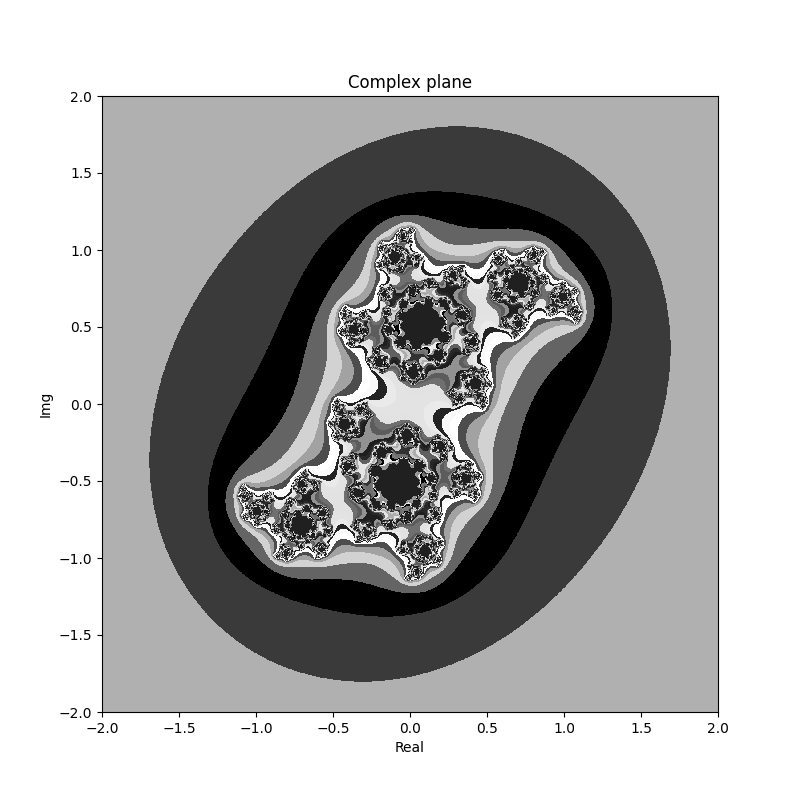
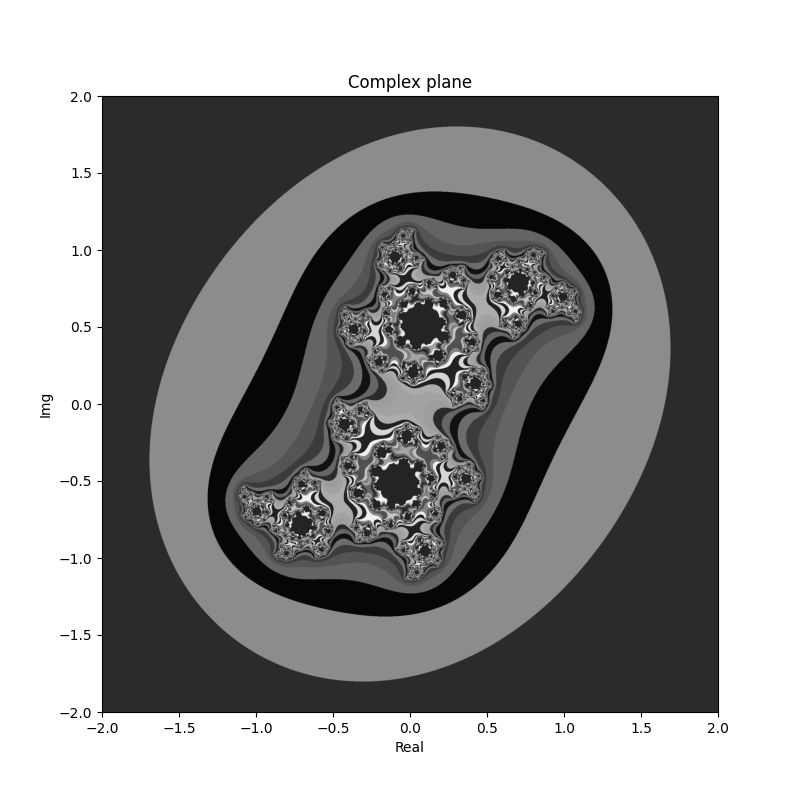
Update fractal.

diff --git a/Fractal/fractal.py b/Fractal/fractal.py
@@ -3,13 +3,14 @@ import matplotlib.pyplot as plt
 import cv2 as cv
 
 class JuliaSet:
-    def __init__(self, c, sampling_num, val_bound, iter_bound, colored):
-        self.sampling_num = sampling_num
+    def __init__(self, step, val_bound, iter_bound, c, colored):
+        self.step = step
         self.val_bound = val_bound
         self.iter_bound = iter_bound
         self.c = c
         self.colored = colored
-        self.COLORS = [np.random.choice(range(256), size=3) for i in range(self.iter_bound+1)]
+        self.RGB_COLORS = [np.random.choice(range(256), size=3) for i in range(self.iter_bound+1)]
+        self.GRAY_COLORS = [np.array([x,x,x]) for x in np.random.choice(range(256), size=self.iter_bound+1)]
 
     def iter_at_divergence(self, p0):
         '''
@@ -23,27 +24,22 @@ class JuliaSet:
             z = z**2 + self.c
             i+=1
 
-        return self.COLORS[i]
+        if self.colored:
+            return self.RGB_COLORS[i]
+        else:
+            return self.GRAY_COLORS[i]
 
     def plot(self, start_x, end_x, start_y, end_y):
-        img = np.full((self.sampling_num, self.sampling_num, 3),0)
-        x_samples = np.linspace(start_x, end_x, self.sampling_num)
-        y_samples = np.linspace(start_y, end_y, self.sampling_num)
+        x_samples = np.arange(start_x, end_x, self.step)
+        y_samples = np.arange(start_y, end_y, self.step)
+        img = np.full((len(y_samples), len(x_samples), 3),0)
 
-        for i in range(self.sampling_num):
-            for j in range(self.sampling_num):
-                img[j][i] = self.iter_at_divergence(complex(x_samples[i], y_samples[j]))
+        for i in range(len(y_samples)):
+            for j in range(len(x_samples)):
+                img[i][j] = self.iter_at_divergence(complex(x_samples[j], y_samples[i]))
 
         fig = plt.figure('Mandelbrot fractal', figsize=[8,8])
-
-        if self.colored:
-            plt.imshow(img, extent=[start_x,end_x,start_y,end_y])
-        else:
-            plt.imshow(img[:,:,1], 
-                       cmap='gray', 
-                       interpolation='none', 
-                       extent=[start_x,end_x,start_y,end_y])
-        
+        plt.imshow(img, extent=[start_x,end_x,start_y,end_y])
         plt.title('Complex plane')
         plt.xlabel('Real')
         plt.ylabel('Img')
@@ -51,12 +47,13 @@ class JuliaSet:
         fig.savefig('julia_set.png')
 
 class MandelbrotSet:
-    def __init__(self, sampling_num, val_bound, iter_bound, colored=True):
-        self.sampling_num = sampling_num
+    def __init__(self, step, val_bound, iter_bound, colored=True):
+        self.step = step
         self.val_bound = val_bound
         self.iter_bound = iter_bound
         self.colored = colored
-        self.COLORS = [np.random.choice(range(256), size=3) for i in range(self.iter_bound+1)]
+        self.RGB_COLORS = [np.random.choice(range(256), size=3) for i in range(self.iter_bound+1)]
+        self.GRAY_COLORS = [np.array([x,x,x]) for x in np.random.choice(range(256), size=self.iter_bound+1)]
 
     def iter_at_divergence(self, c):
         '''
@@ -70,27 +67,22 @@ class MandelbrotSet:
             z = z**2 + c
             i+=1
 
-        return self.COLORS[i]
+        if self.colored:
+            return self.RGB_COLORS[i]
+        else:
+            return self.GRAY_COLORS[i]
 
     def plot(self, start_x, end_x, start_y, end_y):
-        img = np.full((self.sampling_num, self.sampling_num, 3),0)
-        x_samples = np.linspace(start_x, end_x, self.sampling_num)
-        y_samples = np.linspace(start_y, end_y, self.sampling_num)
+        x_samples = np.arange(start_x, end_x, self.step)
+        y_samples = np.arange(start_y, end_y, self.step)
+        img = np.full((len(y_samples), len(x_samples), 3),0)
 
-        for i in range(self.sampling_num):
-            for j in range(self.sampling_num):
-                img[j][i] = self.iter_at_divergence(complex(x_samples[i], y_samples[j]))
+        for i in range(len(y_samples)):
+            for j in range(len(x_samples)):
+                img[i][j] = self.iter_at_divergence(complex(x_samples[j], y_samples[i]))
 
         fig = plt.figure('Mandelbrot fractal', figsize=[8,8])
-
-        if self.colored:
-            plt.imshow(img, extent=[start_x,end_x,start_y,end_y])
-        else:
-            plt.imshow(img[:,:,1], 
-                       cmap='gray', 
-                       interpolation='none', 
-                       extent=[start_x,end_x,start_y,end_y])
-        
+        plt.imshow(img, extent=[start_x,end_x,start_y,end_y])
         plt.title('Complex plane')
         plt.xlabel('Real')
         plt.ylabel('Img')
@@ -99,10 +91,10 @@ class MandelbrotSet:
 
 
 if __name__=='__main__':
-    colored = False
+    colored = True
     
-    m = MandelbrotSet(2000, 3, 40, colored)
+    m = MandelbrotSet(1e-3, 3, 40, colored)
     m.plot(-2.1, 0.6, -1.4, 1.4)
     #m.plot(-1.48, -1.42, -0.02, 0.02)
-    j = JuliaSet(complex(0.2,0.6), 2000, 3, 30, colored)
+    j = JuliaSet(1e-3, 3, 30, complex(0.2,0.6), colored)
     j.plot(-2, 2, -2, 2)
